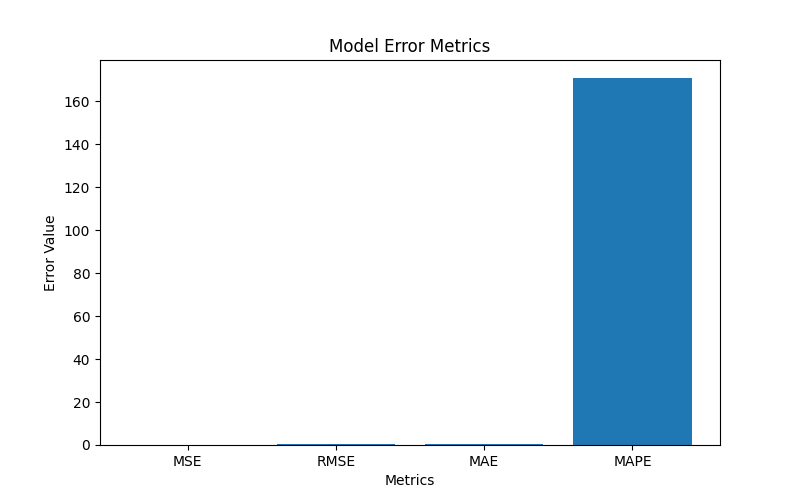
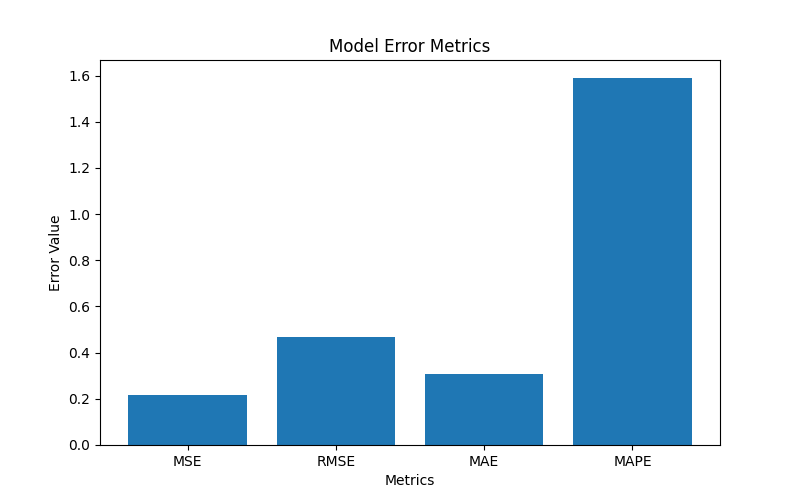
update metrics

diff --git a/src/evaluate.py b/src/evaluate.py
@@ -26,7 +26,7 @@ def evaluate_model(model, x_test, y_test):
         mae = torch.mean(torch.abs(predictions - y_test)).item()
         # MAPE 
         epsilon = 1e-7  # to avoid division by zero
-        mape = torch.mean(torch.abs((y_test - predictions) / (y_test + epsilon))).item() * 100
+        mape = torch.mean(torch.abs((y_test - predictions) / (y_test + epsilon))).item()
     
 
 
